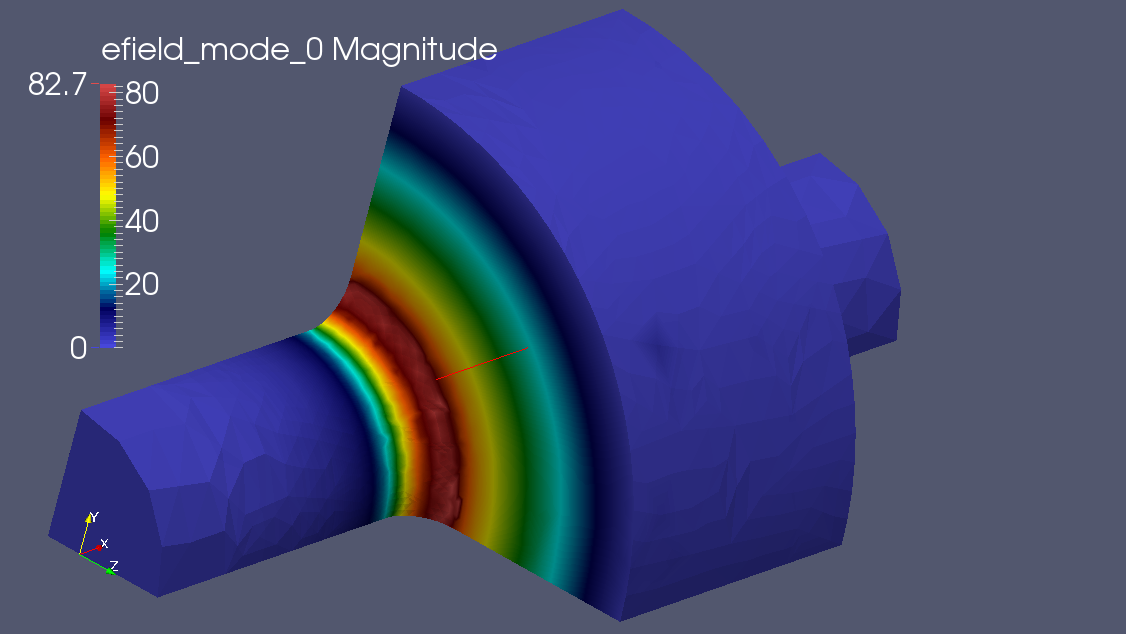
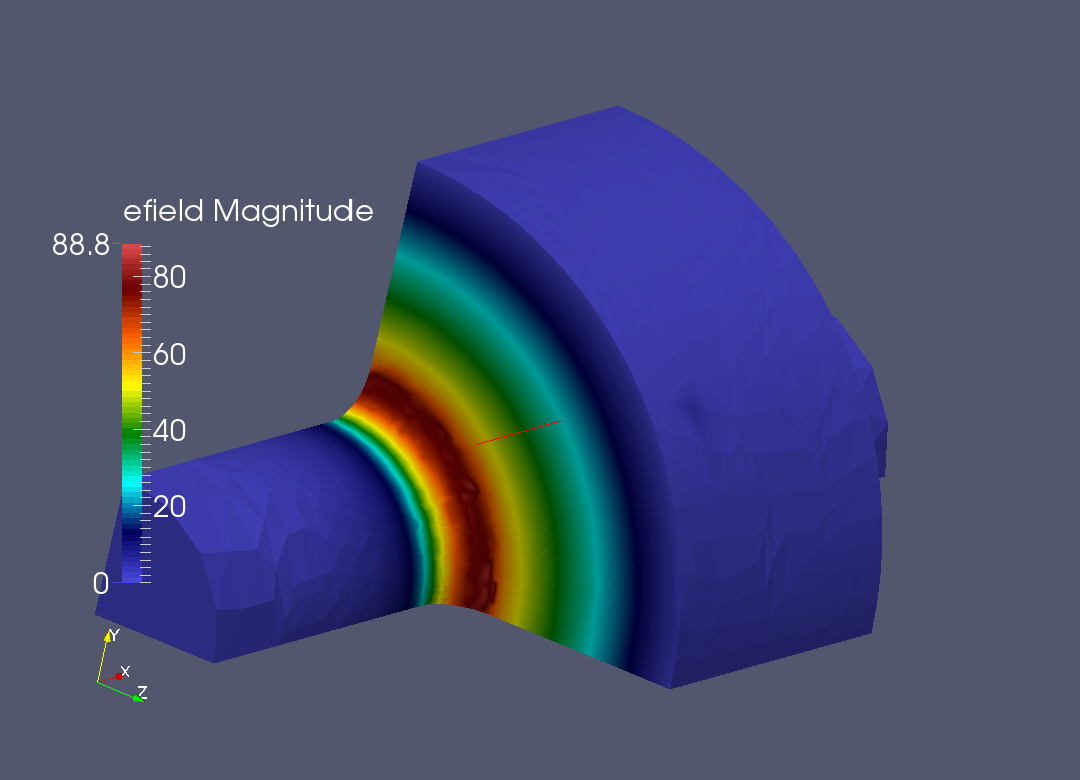
updated pillbox results [figures]

Changed region(s): [[0.0, 0.0, 0.825, 0.989], [0.2139, 0.7792, 0.2444, 0.8091]]

diff --git a/ace3p_progress_report/curve_adapt_report/curve_adapt_report.tex b/ace3p_progress_report/curve_adapt_report/curve_adapt_report.tex
@@ -338,13 +338,13 @@ In particular, Fig. \ref{pill} shows the results for the smaller ``PILLBOX''. We
 \begin{landscape}
 \begin{figure}[ph!]
 \centering
-\subfigure[]{\label{pill_init}\includegraphics[width=0.55\textwidth]{al_0_ar_0p0125_3721_elems.png}}
+\subfigure[]{\label{pill_init_field}\includegraphics[width=0.55\textwidth]{al_0_ar_0p0125_3721_elems_e_field.png}}
 \hspace*{50pt}
-\subfigure[]{\label{pill_size}\includegraphics[width=0.55\textwidth]{al_0_ar_0p0125_3721_elems_size_field.png}}
+\subfigure[]{\label{pill_init_mesh}\includegraphics[width=0.55\textwidth]{al_0_ar_0p0125_3721_elems_mesh.png}}
 \\
-\subfigure[]{\label{pill_adapt}\includegraphics[width=0.55\textwidth]{al_3_ar_0p0125_14221_elems.png}}
+\subfigure[]{\label{pill_final_field}\includegraphics[width=0.55\textwidth]{al_3_ar_0p0125_14221_elems_e_field.png}}
 \hspace*{50pt}
-\subfigure[]{\label{pill_field}\includegraphics[width=0.55\textwidth]{al_3_ar_0p0125_14221_elems_e_field.png}}
+\subfigure[]{\label{pill_final_mesh}\includegraphics[width=0.55\textwidth]{al_3_ar_0p0125_14221_elems_mesh.png}}
 \caption{\label{pill} This Figure shows the results for the PILLBOX model. (a) shows the initial mesh [$\sim3.7\text{K}$ elements], (b) shows the initial size-field, (c) shows the adapted mesh after 3 adaptation steps [$\sim14\text{K}$ elements], and (d) shows the electric field for the final adapted mesh.}
 \end{figure}
 \end{landscape}
